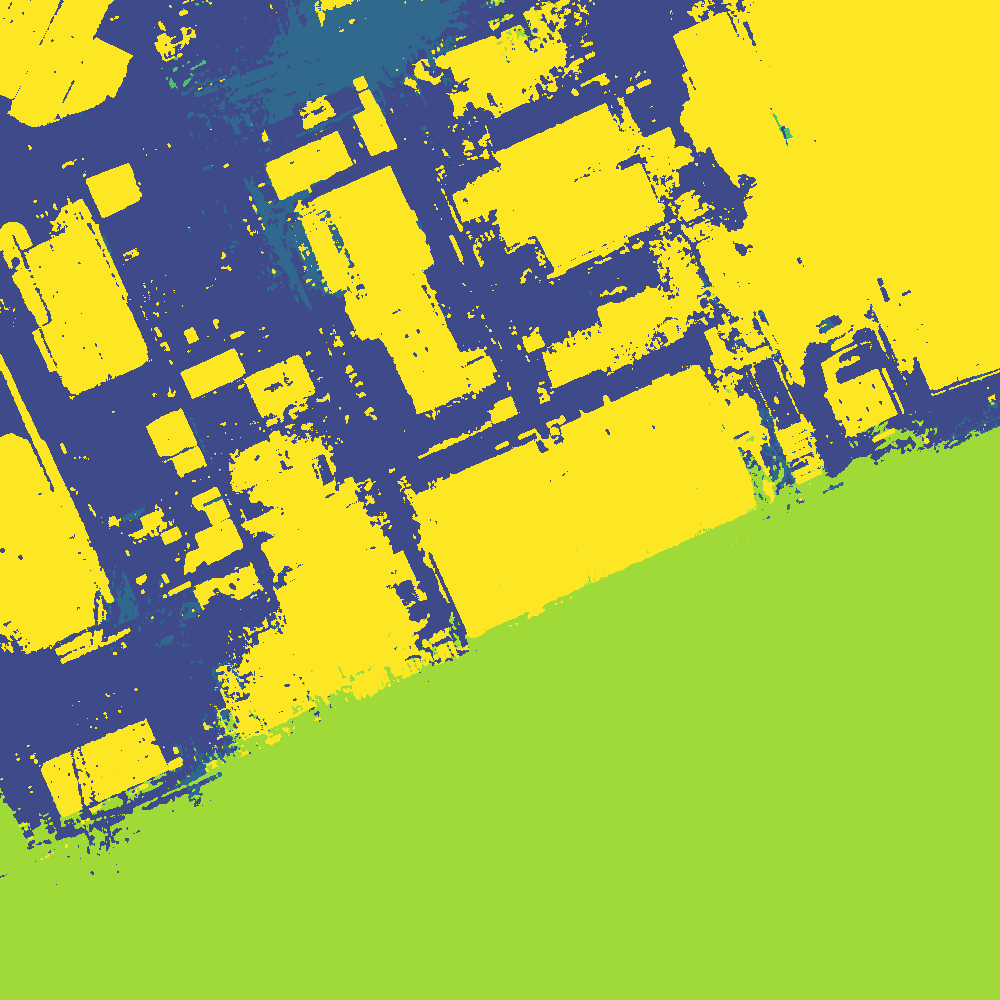
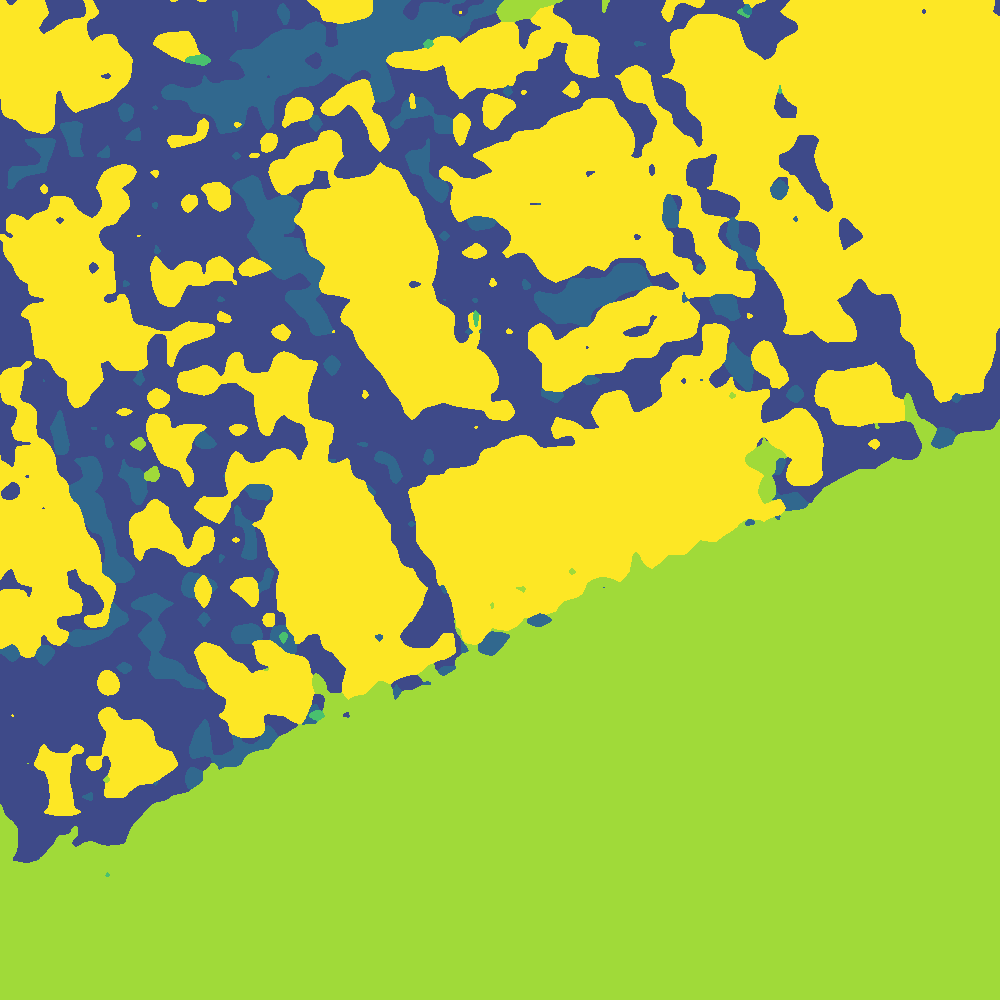
emmm

diff --git a/dino_splat_ov/asset/vis3/1.html b/dino_splat_ov/asset/vis3/1.html
@@ -2,67 +2,49 @@
     * {
         padding: 0;
         margin: 0;
+        box-sizing: border-box;
+    }
+
+    .grid-wrap {
+        margin: 0 auto;
+        display: grid;
+        grid-template-columns: 1fr 1fr; 
+        gap: 8px;
     }
 
     ul {
         list-style: none;
-        width: 100%;
-        display: flex;
-        align-items: center;
-        justify-content: center;
-        /* border-radius: 5px; */
+        display: grid;
+        grid-template-columns: 1fr 1fr;
+        gap: 8px;
         padding: 0 10px;
-        box-sizing: border-box;
-        position: relative;
 
     }
 
     ul li {
-        flex: 1;
-        /* background: #eee; */
-        padding: 5px;
-        text-align: center;
+        padding: 0 5px;
+
+        display: flex;
         justify-content: center;
         align-items: center;
-        /* margin: 5px; */
+        display: flex;
+        flex-direction: column;
+        justify-content: center;
     }
 
     ul li img {
         width: 100%;
-
+        height: 100%;
     }
 
     p {
-        writing-mode: vertical-rl;
-        text-orientation: upright;
         font-size: 14px;
     }
 </style>
+
 <ul>
-    <p>&nbsp;&nbsp;&nbsp;</p>
-    <li>Origin</li>
-    <li>clearCLIP</li>
-    <li>SegEarth-OV</li>
-    <li>DinoSplat-OV(ours)</li>
-</ul>
-<ul>
-    <p>DDOA</p>
-    <li><img src="./img.jpg" alt=""></li>
-    <li><img src="./img_ours.png" alt=""></li>
-    <li><img src="./seg_img.png" alt=""></li>
-    <li><img src="./img_dino.png" alt=""></li>
-</ul>
-<ul>
-    <p>LoveDA</p>
-    <li><img src="./_3558.png" alt=""></li>
-    <li><img src="./_3558_ours.png" alt=""></li>
-    <li><img src="./seg_3558.png" alt=""></li>
-    <li><img src="./_3558_dino.png" alt=""></li>
-</ul>
-<ul>
-    <p>UDD5</p>
-    <li><img src="./P0492.png" alt=""></li>
-    <li><img src="./P0492_ours.png" alt=""></li>
-    <li><img src="./seg_P0492.png" alt=""></li>
-    <li><img src="./P0492_dino.png" alt=""></li>
+    <li><p>Origin</p><img src="./P0492.png" alt=""></li>
+    <li><p>DINO.txt</p><img src="./dino_txt.png" alt=""></li>
+    <li><p>with TLP</p><img src="./w_lap.png" alt=""></li>
+    <li><p>with GSUP</p><img src="./w_gsup.png" alt=""></li>
 </ul>

diff --git a/dino_splat_ov/asset/vis/1.html b/dino_splat_ov/asset/vis/1.html
@@ -41,6 +41,7 @@
 <ul>
     <p>&nbsp;&nbsp;&nbsp;</p>
     <li>Origin</li>
+    <li>DINO.txt</li>
     <li>clearCLIP</li>
     <li>SegEarth-OV</li>
     <li>DinoSplat-OV(ours)</li>
@@ -48,6 +49,7 @@
 <ul>
     <p>DDOA</p>
     <li><img src="./img.jpg" alt=""></li>
+    <li><img src="./img_dinotxt.png" alt=""></li>
     <li><img src="./img_ours.png" alt=""></li>
     <li><img src="./seg_img.png" alt=""></li>
     <li><img src="./img_dino.png" alt=""></li>
@@ -55,6 +57,7 @@
 <ul>
     <p>LoveDA</p>
     <li><img src="./_3558.png" alt=""></li>
+    <li><img src="./_3558_dinotxt.png" alt=""></li>
     <li><img src="./_3558_ours.png" alt=""></li>
     <li><img src="./seg_3558.png" alt=""></li>
     <li><img src="./_3558_dino.png" alt=""></li>
@@ -62,6 +65,7 @@
 <ul>
     <p>UDD5</p>
     <li><img src="./P0492.png" alt=""></li>
+    <li><img src="./P0492_dinotxt.png" alt=""></li>
     <li><img src="./P0492_ours.png" alt=""></li>
     <li><img src="./seg_P0492.png" alt=""></li>
     <li><img src="./P0492_dino.png" alt=""></li>

diff --git a/dino_splat_ov/splat.py b/dino_splat_ov/splat.py
@@ -30,20 +30,41 @@ model = model.to(device).eval()
 # =========================
 win_size = 256
 stride = 128
+# class_groups = [
+#     ["car"],
+#     ["bus"],
+#     ["road","pavement","sidewalk"],
+#     ["forest","vegetation", "tree"],
+#     ["river", "water","pool"],
+#     ["grass","bareland", "barren"],
+#     ["field", "cropland"],
+#     ["building", "house", "roof"],
+# ]
+
+# # 彩色掩膜
+# preset_palette = [
+#     (72, 40, 120),
+#     (62, 74, 137),
+#     (49, 104, 142),
+#     (38, 130, 142),
+#     (31, 158, 137),
+#     (73, 193, 110),
+#     (160, 218, 57),
+#     (253, 231, 37),
+# ]
+
 class_groups = [
-    # ["car"],
-    ["sidewalk"],
+    ["pavement", "bareland", "barren"],
     ["road"],
-    ["vegetation", "tree"],
-    ["river", "water", "pool"],
-    ["grass", "bareland", "barren", "pavement"],
+    ["forest", "tree"],
+    ["river", "water"],
+    ["grass"],
     ["field", "cropland"],
-    ["building", "roof"],
+    ["building", "house", "roof"],
 ]
 
 # 彩色掩膜
 preset_palette = [
-    # (72, 40, 120),
     (62, 74, 137),
     (49, 104, 142),
     (38, 130, 142),
@@ -81,7 +102,7 @@ for idx_list in group_index_maps:
 group_text_feats = torch.cat(group_text_feats, dim=0)  # [num_classes, D]
 
 # 初始化 TLP 并绑定文本特征
-tlp = TLP(grid=50).to(device)
+tlp = TLP(grid=80).to(device)
 tlp.bind_text(group_text_feats)
 
 

diff --git a/dino_splat_ov/aaa.py b/dino_splat_ov/aaa.py
@@ -33,20 +33,41 @@ model = model.to(device).eval()
 # =========================
 win_size = 256
 stride = 128
+# class_groups = [
+#     # ["car"],
+#     ["sidewalk"],
+#     ["road"],
+#     ["vegetation", "tree"],
+#     ["river", "water", "pool"],
+#     ["grass", "bareland", "barren", "pavement"],
+#     ["field", "cropland"],
+#     ["building", "roof"],
+# ]
+
+# # 彩色掩膜
+# preset_palette = [
+#     # (72, 40, 120),
+#     (62, 74, 137),
+#     (49, 104, 142),
+#     (38, 130, 142),
+#     (31, 158, 137),
+#     (73, 193, 110),
+#     (160, 218, 57),
+#     (253, 231, 37),
+# ]
+
 class_groups = [
-    # ["car"],
-    ["sidewalk"],
+    ["pavement", "bareland", "barren"],
     ["road"],
-    ["vegetation", "tree"],
-    ["river", "water", "pool"],
-    ["grass", "bareland", "barren", "pavement"],
+    ["forest", "tree"],
+    ["river", "water"],
+    ["grass"],
     ["field", "cropland"],
-    ["building", "roof"],
+    ["building", "house", "roof"],
 ]
 
 # 彩色掩膜
 preset_palette = [
-    # (72, 40, 120),
     (62, 74, 137),
     (49, 104, 142),
     (38, 130, 142),
